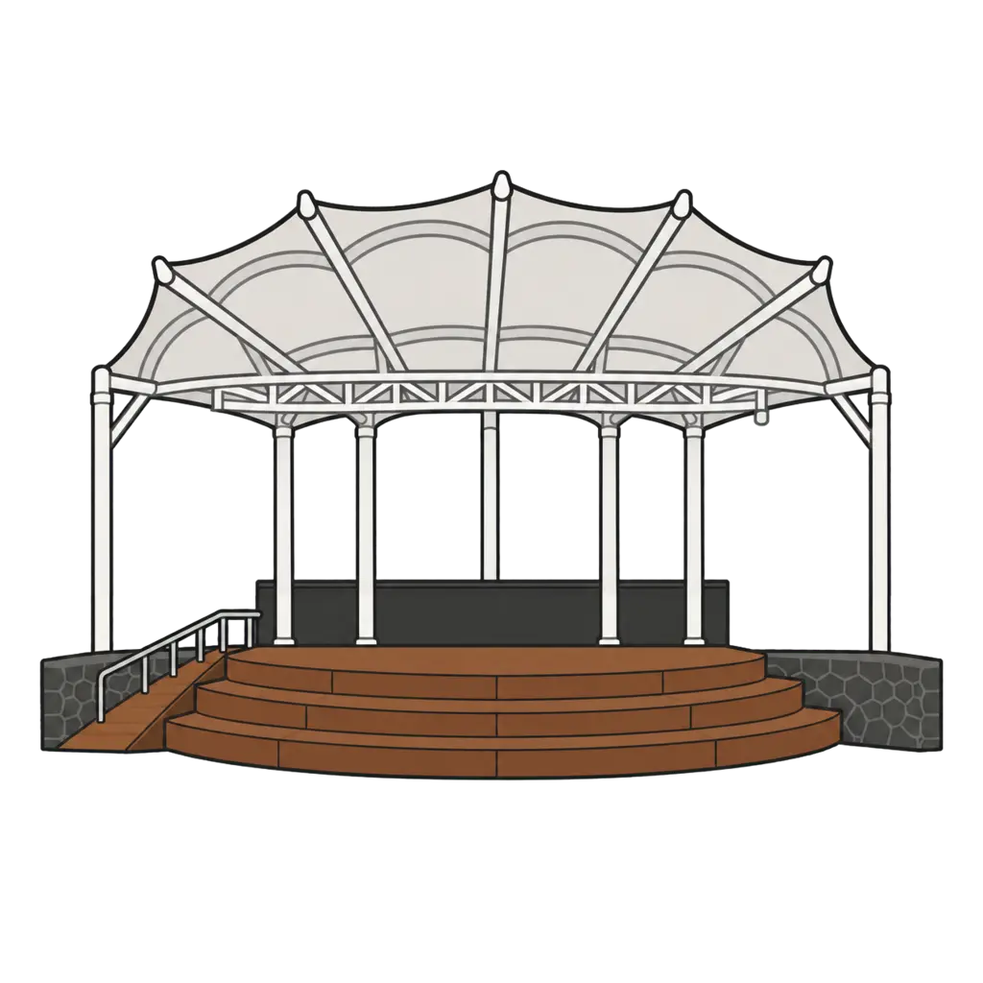
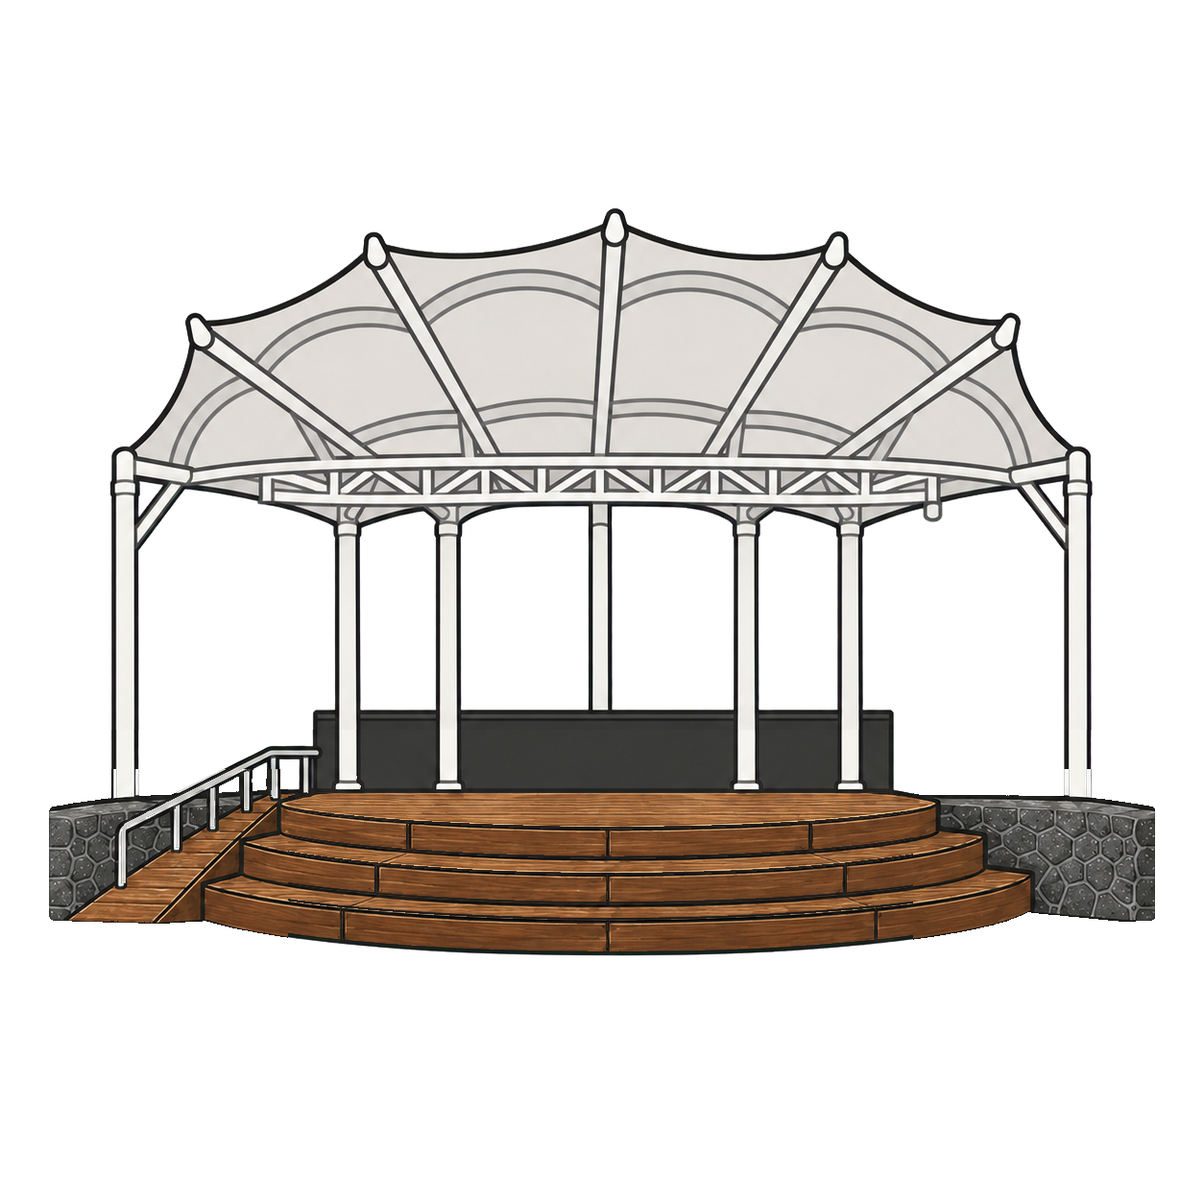
리뉴얼 자산 4종 및 모바일 성능 최적화

Changed region(s): [[0.0312, 0.625, 0.9688, 0.7812]]

diff --git a/app/page.tsx b/app/page.tsx
@@ -12,6 +12,7 @@ import {
   Suspense,
   useCallback,
   useEffect,
+  useLayoutEffect,
   useMemo,
   useRef,
   useState,
@@ -94,6 +95,10 @@ const LATEST_ARTSPACE_IA_ASSET_ID = "artspace-ia-v04";
 const LATEST_DONGMUN_ASSET_ID = "dongmun-v08";
 const LATEST_MOKGWANA_ASSET_ID = "mokgwana-v06";
 const LATEST_GWANDEOKJEONG_ASSET_ID = "gwandeokjeong-v07";
+const LATEST_KIM_MEMORIAL_ASSET_ID = "kim-memorial-front03";
+const LATEST_ARARIO_ASSET_ID = "arario-01";
+const LATEST_BUKSUGU_ASSET_ID = "buksugu-02";
+const LATEST_TAPDONG_SEASIDE_STAGE_ASSET_ID = "tapdong-seaside-stage-02";
 const MAIN_HUB_LANDMARK_ASSET_ID = "jeju-communication-center-a02";
 const LANDMARK_RESOURCE_SIZE = 6.2;
 const LANDMARK_LABEL_GAP = 8;
@@ -105,6 +110,10 @@ const latestRedesignedLandmarkAssets = new Map<string, string>([
   ["예술공간 이아", LATEST_ARTSPACE_IA_ASSET_ID],
   ["제주목 관아", LATEST_MOKGWANA_ASSET_ID],
   ["관덕정", LATEST_GWANDEOKJEONG_ASSET_ID],
+  ["김만덕기념관", LATEST_KIM_MEMORIAL_ASSET_ID],
+  ["아라리오뮤지엄 탑동시네마", LATEST_ARARIO_ASSET_ID],
+  ["북수구광장", LATEST_BUKSUGU_ASSET_ID],
+  ["탑동해변공연장", LATEST_TAPDONG_SEASIDE_STAGE_ASSET_ID],
 ]);
 const supersededRedesignedLandmarkAssets = new Map<string, Set<string>>([
   ["산지천갤러리", new Set(["sanjicheon-v04", "sanjicheon-01", "sanjicheon-02", "sanjicheon-03"])],
@@ -112,6 +121,10 @@ const supersededRedesignedLandmarkAssets = new Map<string, Set<string>>([
   ["예술공간 이아", new Set(["artspace-ia-01", "artspace-ia-02", "artspace-ia-03"])],
   ["제주목 관아", new Set(["mokgwana-01", "mokgwana-02", "mokgwana-03"])],
   ["관덕정", new Set(["gwandeokjeong-01", "gwandeokjeong-02", "gwandeokjeong-03"])],
+  ["김만덕기념관", new Set(["kim-memorial-front01", "kim-memorial-front02", "kim-memorial-quarter01", "kim-memorial-quarter02", "kim-memorial-quarter03"])],
+  ["아라리오뮤지엄 탑동시네마", new Set(["arario-02", "arario-03"])],
+  ["북수구광장", new Set(["buksugu-01", "buksugu-03"])],
+  ["탑동해변공연장", new Set(["tapdong-seaside-stage-03"])],
 ]);
 const EXPORT_CANONICAL_WIDTH = 1180;
 const AUTOSAVE_KEY = "jeju-wondosim-map-review:autosave:v3";
@@ -682,18 +695,18 @@ function mapElementDisplaySize(element: Pick<MapElement, "category" | "size">) {
 const landmarkLocations = [
   { name: MAIN_HUB_CANONICAL_NAME, address: "제주특별자치도 제주시 관덕로 44", addressSourceUrl: "https://www.jejusotong.kr/", assetId: MAIN_HUB_LANDMARK_ASSET_ID, x: 48, y: 64 },
   { name: "제주아트플랫폼", address: "제주특별자치도 제주시 중앙로14길 18", addressSourceUrl: "https://www.jfac.kr/", assetId: "jeju-art-platform-c01", x: 31, y: 62 },
-  { name: "김만덕기념관", address: "제주특별자치도 제주시 산지로 7", addressSourceUrl: "https://www.mandukmuseum.or.kr/", assetId: "kim-memorial-front03", x: 74, y: 31 },
+  { name: "김만덕기념관", address: "제주특별자치도 제주시 산지로 7", addressSourceUrl: "https://www.mandukmuseum.or.kr/", assetId: LATEST_KIM_MEMORIAL_ASSET_ID, x: 74, y: 31 },
   { name: "예술공간 이아", address: "제주특별자치도 제주시 중앙로14길 21", addressSourceUrl: "https://www.jfac.kr/operatingSpace/artSpaceIAa/iAaGuide", assetId: LATEST_ARTSPACE_IA_ASSET_ID, x: 34, y: 57 },
-  { name: "아라리오뮤지엄 탑동시네마", address: "제주특별자치도 제주시 탑동로 14", addressSourceUrl: "https://www.arariomuseum.org/", assetId: "arario-01", x: 18, y: 24 },
+  { name: "아라리오뮤지엄 탑동시네마", address: "제주특별자치도 제주시 탑동로 14", addressSourceUrl: "https://www.arariomuseum.org/", assetId: LATEST_ARARIO_ASSET_ID, x: 18, y: 24 },
   { name: "김만덕객주", address: "제주특별자치도 제주시 임항로 68", addressSourceUrl: "https://www.visitjeju.net/kr/detail/view?contentsid=CNTS_000000000019652", assetId: "guesthouse-01", x: 75, y: 25 },
   { name: "산지천갤러리", address: "제주특별자치도 제주시 중앙로3길 36", addressSourceUrl: "https://www.jfac.kr/operatingSpace/sjcGallery/sjcGuide", assetId: LATEST_SANJICHEON_ASSET_ID, x: 64, y: 40 },
   { name: "제주목 관아", address: "제주특별자치도 제주시 관덕로 25", addressSourceUrl: "https://www.jeju.go.kr/mokkwana/", assetId: LATEST_MOKGWANA_ASSET_ID, x: 39, y: 60 },
   { name: "관덕정", address: "제주특별자치도 제주시 관덕로 19", addressSourceUrl: "https://www.visitjeju.net/kr/detail/view?contentsid=CONT_000000000500057", assetId: LATEST_GWANDEOKJEONG_ASSET_ID, x: 37, y: 58 },
   { name: "칠성로", address: "제주특별자치도 제주시 관덕로13길 12 일대", addressSourceUrl: "https://www.visitjeju.net/kr/detail/view?contentsid=CONT_000000000500750", assetId: "chilsungro", x: 58, y: 50 },
   { name: "동문시장", address: "제주특별자치도 제주시 관덕로14길 20", addressSourceUrl: "https://www.visitjeju.net/kr/detail/view?contentsid=CONT_000000000500745", assetId: LATEST_DONGMUN_ASSET_ID, x: 66, y: 55 },
-  { name: "북수구광장", address: "제주특별자치도 제주시 일도일동 1232", addressSourceUrl: "https://www.facebook.com/wowjejusi/", assetId: "buksugu-01", x: 62, y: 45 },
+  { name: "북수구광장", address: "제주특별자치도 제주시 일도일동 1232", addressSourceUrl: "https://www.facebook.com/wowjejusi/", assetId: LATEST_BUKSUGU_ASSET_ID, x: 62, y: 45 },
   { name: "탑동광장", address: "제주특별자치도 제주시 중앙로 1", addressSourceUrl: "https://access.visitkorea.or.kr/ms/detail.do?cotId=2a115c66-9a01-4b59-bf17-ac2dd692ceea", assetId: "tapdong-square-03", x: 28, y: 20 },
-  { name: "탑동해변공연장", address: "제주특별자치도 제주시 중앙로 2", addressSourceUrl: "https://access.visitkorea.or.kr/ms/detail.do?cotId=51ad702c-5321-45a0-8a03-316acb38336e", assetId: "tapdong-seaside-stage-02", x: 37, y: 20 },
+  { name: "탑동해변공연장", address: "제주특별자치도 제주시 중앙로 2", addressSourceUrl: "https://access.visitkorea.or.kr/ms/detail.do?cotId=51ad702c-5321-45a0-8a03-316acb38336e", assetId: LATEST_TAPDONG_SEASIDE_STAGE_ASSET_ID, x: 37, y: 20 },
 ] as const;
 
 const CALIBRATION_LANDMARK_NAMES = [
@@ -2395,6 +2408,10 @@ export default function Home() {
   const fitZoomAppliedRef = useRef(false);
   const zoomRef = useRef(0.72);
   const panRef = useRef({ x: 0, y: 0 });
+  const touchTransformBaseZoomRef = useRef(0.72);
+  const touchTransformFrameRef = useRef<number | null>(null);
+  const pendingTouchTransformRef = useRef<{ zoom: number; pan: { x: number; y: number } } | null>(null);
+  const touchTransformCommitPendingRef = useRef(false);
   const wheelFrameRef = useRef<number | null>(null);
   const focusTransitionFrameRef = useRef<number | null>(null);
   const focusTransitionTimerRef = useRef<number | null>(null);
@@ -4174,7 +4191,7 @@ export default function Home() {
                 } : {}),
               };
               if (restored.name === "탑동해변공연장" && !restored.assetId) {
-                return { ...restored, assetId: "tapdong-seaside-stage-02", status: "approved" as AssetStatus, directoryId: "place-tapdong-seaside-stage" };
+                return { ...restored, assetId: LATEST_TAPDONG_SEASIDE_STAGE_ASSET_ID, status: "approved" as AssetStatus, directoryId: "place-tapdong-seaside-stage" };
               }
               const markerDefault = defaultMarkerAssetId(restored.category, recommendedMarkerStyle, restored.name);
               if (!restored.assetId && markerDefault) {
@@ -4903,8 +4920,8 @@ export default function Home() {
 
   useEffect(() => {
     if (publicLayoutAccess === "loading" || !startupAssetsReady || !startupInitialViewReady) return;
-    const timer = window.setTimeout(() => setStartupRevealReady(true), 320);
-    return () => window.clearTimeout(timer);
+    const readyFrame = window.requestAnimationFrame(() => setStartupRevealReady(true));
+    return () => window.cancelAnimationFrame(readyFrame);
   }, [publicLayoutAccess, startupAssetsReady, startupInitialViewReady]);
 
   useEffect(() => {
@@ -4924,6 +4941,61 @@ export default function Home() {
     calibrationLiveApplyRef.current = calibrationLiveApply;
   }, [calibrationLiveApply]);
 
+  const applyTouchMapTransform = useCallback((nextZoom: number, nextPan: { x: number; y: number }) => {
+    const stageWrap = stageWrapRef.current;
+    const stage = stageRef.current;
+    const viewport = viewportRef.current;
+    if (!stageWrap || !stage || !viewport) return;
+    const scale = nextZoom / Math.max(touchTransformBaseZoomRef.current, 0.01);
+    stageWrap.style.transform = `translate3d(calc(-50% + ${nextPan.x}px), calc(-50% + ${nextPan.y}px), 0)`;
+    stage.style.transform = `translateX(-50%) scale(${scale})`;
+    viewport.classList.add("is-direct-manipulation");
+  }, []);
+
+  const flushTouchMapTransform = useCallback(() => {
+    if (touchTransformFrameRef.current !== null) {
+      window.cancelAnimationFrame(touchTransformFrameRef.current);
+      touchTransformFrameRef.current = null;
+    }
+    const pending = pendingTouchTransformRef.current;
+    pendingTouchTransformRef.current = null;
+    if (pending) applyTouchMapTransform(pending.zoom, pending.pan);
+  }, [applyTouchMapTransform]);
+
+  const queueTouchMapTransform = useCallback((nextZoom: number, nextPan: { x: number; y: number }) => {
+    zoomRef.current = nextZoom;
+    panRef.current = nextPan;
+    pendingTouchTransformRef.current = { zoom: nextZoom, pan: nextPan };
+    if (touchTransformFrameRef.current !== null) return;
+    touchTransformFrameRef.current = window.requestAnimationFrame(() => {
+      touchTransformFrameRef.current = null;
+      const pending = pendingTouchTransformRef.current;
+      pendingTouchTransformRef.current = null;
+      if (pending) applyTouchMapTransform(pending.zoom, pending.pan);
+    });
+  }, [applyTouchMapTransform]);
+
+  const beginTouchMapTransform = useCallback(() => {
+    flushTouchMapTransform();
+    touchTransformBaseZoomRef.current = zoomRef.current;
+    viewportRef.current?.classList.add("is-direct-manipulation");
+  }, [flushTouchMapTransform]);
+
+  const commitTouchMapTransform = useCallback(() => {
+    flushTouchMapTransform();
+    touchTransformCommitPendingRef.current = true;
+    touchTransformBaseZoomRef.current = zoomRef.current;
+    setZoom(zoomRef.current);
+    setPan({ ...panRef.current });
+  }, [flushTouchMapTransform]);
+
+  useLayoutEffect(() => {
+    if (!touchTransformCommitPendingRef.current) return;
+    touchTransformCommitPendingRef.current = false;
+    stageRef.current?.style.removeProperty("transform");
+    viewportRef.current?.classList.remove("is-direct-manipulation");
+  }, [pan, zoom]);
+
   useEffect(() => {
     zoomRef.current = zoom;
     panRef.current = pan;
@@ -4931,10 +5003,12 @@ export default function Home() {
 
   useEffect(() => () => {
     if (wheelFrameRef.current !== null) window.cancelAnimationFrame(wheelFrameRef.current);
+    if (touchTransformFrameRef.current !== null) window.cancelAnimationFrame(touchTransformFrameRef.current);
     if (focusTransitionFrameRef.current !== null) window.cancelAnimationFrame(focusTransitionFrameRef.current);
     if (focusTransitionTimerRef.current !== null) window.clearTimeout(focusTransitionTimerRef.current);
     activeTouchPointersRef.current.clear();
     pinchGestureRef.current = null;
+    pendingTouchTransformRef.current = null;
   }, []);
 
   const beginPinchGesture = useCallback(() => {
@@ -4953,9 +5027,10 @@ export default function Home() {
       startPanX: panRef.current.x,
       startPanY: panRef.current.y,
     };
+    beginTouchMapTransform();
     setInteraction(null);
     return true;
-  }, []);
+  }, [beginTouchMapTransform]);
 
   useEffect(() => {
     if (publicLayoutAccess === "loading" || (publicLayoutAccess === "viewer" && baseMap !== "uploaded")) return;
@@ -4978,7 +5053,10 @@ export default function Home() {
     const applyMove = ({ clientX, clientY }: { clientX: number; clientY: number }) => {
       if (!interaction) return;
       if (interaction.type === "pan") {
-        setPan({ x: interaction.panX + clientX - interaction.startX, y: interaction.panY + clientY - interaction.startY });
+        queueTouchMapTransform(zoomRef.current, {
+          x: interaction.panX + clientX - interaction.startX,
+          y: interaction.panY + clientY - interaction.startY,
+        });
         return;
       }
       if (interaction.type === "label") {
@@ -5054,10 +5132,7 @@ export default function Home() {
               x: centerX - (pinch.startCenterX - pinch.startPanX) * ratio,
               y: centerY - (pinch.startCenterY - pinch.startPanY) * ratio,
             };
-            zoomRef.current = nextZoom;
-            panRef.current = nextPan;
-            setZoom(nextZoom);
-            setPan(nextPan);
+            queueTouchMapTransform(nextZoom, nextPan);
           }
           return;
         }
@@ -5078,6 +5153,7 @@ export default function Home() {
       if (trackedTouch) activeTouchPointersRef.current.delete(event.pointerId);
       if (pinch && pinch.pointerIds.includes(event.pointerId)) {
         pinchGestureRef.current = null;
+        commitTouchMapTransform();
         const remaining = activeTouchPointersRef.current.values().next().value as { clientX: number; clientY: number } | undefined;
         if (remaining) {
           setInteraction({
@@ -5094,6 +5170,7 @@ export default function Home() {
       }
       if (trackedTouch && pinch) return;
       flushMove();
+      if (interaction?.type === "pan") commitTouchMapTransform();
       if (interaction?.type === "pan" && interaction.pendingPublicPlaceId) {
         const moved = Math.hypot(event.clientX - interaction.startX, event.clientY - interaction.startY);
         if (moved <= 6) {
@@ -5127,6 +5204,7 @@ export default function Home() {
       pendingMove = null;
       if (moveFrame !== null) window.cancelAnimationFrame(moveFrame);
       moveFrame = null;
+      if (interaction?.type === "pan" || event.pointerType === "touch") commitTouchMapTransform();
       setInteraction(null);
     };
     window.addEventListener("pointermove", handleMove);
@@ -5138,7 +5216,7 @@ export default function Home() {
       window.removeEventListener("pointercancel", handleCancel);
       if (moveFrame !== null) window.cancelAnimationFrame(moveFrame);
     };
-  }, [clientToMap, fitZoom, interaction, placeEventFormOpen, placeEventMultiPlace, placeEventNoPlace, selectPublicMarker, syncReviewedPlaceRequestLocation, togglePlaceEventMapSelection, updateCalibrationPoint, updateDenseLabelPosition, updateElement]);
+  }, [clientToMap, commitTouchMapTransform, fitZoom, interaction, placeEventFormOpen, placeEventMultiPlace, placeEventNoPlace, queueTouchMapTransform, selectPublicMarker, syncReviewedPlaceRequestLocation, togglePlaceEventMapSelection, updateCalibrationPoint, updateDenseLabelPosition, updateElement]);
 
   useEffect(() => {
     const handleKey = (event: KeyboardEvent) => {
@@ -5265,6 +5343,7 @@ export default function Home() {
       }
       setSelectedId(null); setSelectedFacilityId(null); setSelectedNoteId(null); setSelectedDenseLabelId(null);
     }
+    beginTouchMapTransform();
     setInteraction({ type: "pan", startX: event.clientX, startY: event.clientY, panX: panRef.current.x, panY: panRef.current.y, pendingPublicPlaceId, pendingPlaceRequestLocation });
   };
 
@@ -8300,7 +8379,7 @@ export default function Home() {
     ? MAP_SVG
     : baseMap === "png"
       ? MAP_PNG
-      : uploadedBaseMapDisplaySource(uploadedBaseMap, viewportDimensions.width > 0 && viewportDimensions.width <= 760, zoom / Math.max(fitZoom, 0.22)) || MAP_SVG;
+      : uploadedBaseMapDisplaySource(uploadedBaseMap, viewportDimensions.width > 0 && viewportDimensions.width <= 760, settledLabelZoom / Math.max(fitZoom, 0.22)) || MAP_SVG;
   const activeBaseMapLabel = baseMap === "uploaded" ? uploadedBaseMap?.name ?? "업로드 지도" : "v15 · 골목추가정리 검수본";
   const editorSyncLabel = editorDraftSyncState === "saving"
     ? "서버 저장 중"
@@ -8633,7 +8712,7 @@ export default function Home() {
           <div className="canvas-toolbar"><span className="map-file" title={activeBaseMapLabel}>{activeBaseMapLabel}</span><div className={`canvas-hint ${resourceOutputDragMode ? "output-mode" : ""}`}>{resourceOutputDragMode ? "출력 위치 ON · 드래그/방향키로 리소스만 이동" : calibrationMode ? "앵커 드래그 → 전체 좌표 보정 적용" : "출력 위치 OFF · 실제 위치 앵커 이동"}</div></div>
           <div className={`map-viewport ${interaction?.type === "pan" ? "is-panning" : ""} ${interaction?.type === "drag" ? "is-dragging-element" : ""} ${Math.abs(zoom - settledLabelZoom) > 0.002 ? "is-zooming" : ""} ${mapFocusAnimating ? "is-programmatic-focus" : ""} ${memoMode ? "memo-cursor" : ""} ${eventPlaceSelectionMode ? "event-place-selecting" : ""} ${placeRequestPickingLocation ? "place-request-location-selecting" : ""}`} ref={viewportRef} onWheel={onWheel} onPointerDown={startPan}>
             {publicLayoutAccess === "viewer" && <button type="button" className="public-map-reset" onPointerDown={(event) => event.stopPropagation()} onClick={resetPublicMap} aria-label="전체 지도 보기">↙ 전체 지도</button>}
-            <div ref={stageWrapRef} className="map-stage-wrap" style={{ transform: `translate(calc(-50% + ${pan.x}px), calc(-50% + ${pan.y}px))` }}>
+            <div ref={stageWrapRef} className="map-stage-wrap" style={{ transform: `translate3d(calc(-50% + ${pan.x}px), calc(-50% + ${pan.y}px), 0)` }}>
               <div className={`map-stage ${stageMapClass} ${forceIndividualLabels && !printPreviewMode ? "label-detail-individual" : ""} ${calibrationMode && editingEnabled ? "calibration-active" : ""}`} data-label-detail={denseLabelClusters.length ? forceIndividualLabels && !printPreviewMode ? "dense-exception" : "grouped" : "individual"} ref={stageRef} style={{ aspectRatio: `${MAP_ASPECT}`, width: `${zoom * 100}%` }} onPointerDown={editingEnabled ? handleStagePointerDown : publicLayoutAccess === "viewer" ? (event) => startPan(event, undefined, placeRequestPickingLocation) : undefined}>
                 {!mapLoaded && <div className="map-loading"><span />초고해상도 베이스맵 불러오는 중</div>}
                 <img ref={baseMapImgRef} className="base-map" src={activeBaseMapSrc} alt="제주 원도심 검수용 베이스맵" draggable={false} decoding="async" fetchPriority="high" onLoad={() => setMapLoaded(true)} />

diff --git a/app/landmark-assets/index.ts b/app/landmark-assets/index.ts
@@ -10,7 +10,7 @@ export type BundledLandmarkAsset = {
 };
 
 const drive = (id: string) => `https://drive.google.com/file/d/${id}/view?usp=drivesdk`;
-const SCREEN_REVISION = "20260818-v1";
+const SCREEN_REVISION = "20260819-renewed-v1";
 const asset = (id: string, name: string, placeName: string, sourceId: string, status: "approved" | "review" = "review", revision?: string): BundledLandmarkAsset => ({
   id,
   name,
@@ -32,7 +32,7 @@ export const bundledLandmarkAssets: BundledLandmarkAsset[] = [
   asset("jeju-art-platform-c02", "C-02", "제주아트플랫폼", "1sWoCzS7pTmljzc0SKyrtaK4n9mTtT7s1"),
   asset("kim-memorial-front01", "정면형 01", "김만덕기념관", "1TncaLfVVVKpo_9QWCUadDbL9ey7Xcv4k"),
   asset("kim-memorial-front02", "정면형 02", "김만덕기념관", "1tN2rU4UdyXpjKhSP9Q2iXSvHLTXOBs9t"),
-  asset("kim-memorial-front03", "정면형 03", "김만덕기념관", "1ibKYrZI6AmglYZIrdV03tvWdPiCmIl_C"),
+  asset("kim-memorial-front03", "정면형 03 · v04 밝기·타일·포스터 리뉴얼", "김만덕기념관", "1eJIj9K71WtWzOy2kUUomZuHUKIb7ja5M", "approved", "20260819-renewed-v1"),
   asset("kim-memorial-quarter01", "3/4형 01", "김만덕기념관", "1XcWZBN6-A7afvlPq5Py02jkb-5pDa_SQ"),
   asset("kim-memorial-quarter02", "3/4형 02", "김만덕기념관", "1UkpS_YFo0h22uVLrC7-mE7R66gDTq4PF"),
   asset("kim-memorial-quarter03", "3/4형 03", "김만덕기념관", "1pyP_iOXVWC6rEtzQqzKc-yQfm8LpzFbu"),
@@ -40,7 +40,7 @@ export const bundledLandmarkAssets: BundledLandmarkAsset[] = [
   asset("artspace-ia-01", "01", "예술공간 이아", "1YUKunZFdvrxwRjrg34Ty95ka2ptbrPw4"),
   asset("artspace-ia-02", "02", "예술공간 이아", "1tIGnoC8X5g_fe_1l5IIR1pqteuO_ydg8"),
   asset("artspace-ia-03", "03", "예술공간 이아", "18AH81ITwD8FBJ-Qfh4YhTovuUuwQSeGi"),
-  asset("arario-01", "01", "아라리오뮤지엄 탑동시네마", "1HG_1TowUiR5czlwnIqlc1jWI3780k2MH"),
+  asset("arario-01", "01 · v04 사진 기반 구조 리뉴얼", "아라리오뮤지엄 탑동시네마", "1KWnZV-M8vi5TNBhsAj4TBc-DLKGOq7Vq", "approved", "20260819-renewed-v1"),
   asset("arario-02", "02", "아라리오뮤지엄 탑동시네마", "1DEkKtQXNFIpQun_V7JFFDq5PGTRrqV56"),
   asset("arario-03", "03", "아라리오뮤지엄 탑동시네마", "10k_eX10r7cefYyNx0q9osSi5Osf00J5G"),
   asset("guesthouse-01", "01", "김만덕객주", "1LOkmVUKR3eG-_2Q1q-y8ChpQjNn-60Pl"),
@@ -65,11 +65,11 @@ export const bundledLandmarkAssets: BundledLandmarkAsset[] = [
   asset("dongmun-02", "02", "동문시장", "1T4FBW7DcqE7W8T1uCX3FNyxkDTGfUFST"),
   asset("dongmun-03", "03 캐노피", "동문시장", "1R9vy-yTJr3QjeSQ2QzETYmO5FpnAPYqQ"),
   asset("buksugu-01", "01", "북수구광장", "13zmz0Hn_SP8ZdWuKBzlHmfvTfBUnDDB5"),
-  asset("buksugu-02", "02", "북수구광장", "1U0zkvSggextTVdWPa_PVM5B79ZSPSkOi"),
+  asset("buksugu-02", "02 · v03 목재·현무암 질감 리뉴얼", "북수구광장", "1ckvDt-XcwMheuRdT-G3L5t-yjFGrsvMF", "approved", "20260819-renewed-v1"),
   asset("buksugu-03", "03", "북수구광장", "1oZuig-CniYawKLnf-oVscgVZjV1j6Vl5"),
   asset("tapdong-square-01", "01 파도형", "탑동광장", "1roVYb8KTXdwTpj1xtqp7EwCNAIgZmpVT"),
   asset("tapdong-square-02", "02", "탑동광장", "1yvxmEjXSFPEn13TyYzL7dSGRyy31Op_i"),
   asset("tapdong-square-03", "03 쌍돌고래", "탑동광장", "1nEplMz-3gj_gqpleBTVTmvSjlAQdOAA8", "approved"),
-  asset("tapdong-seaside-stage-02", "02 실사디테일형", "탑동해변공연장", "1yJFc_CSJpdFR0Q8nocCF55ryO57StvEf", "approved"),
+  asset("tapdong-seaside-stage-02", "02 · v03 외장 타일 질감 리뉴얼", "탑동해변공연장", "1jHvj42j4k-lbeS2BAje_UGkv3u3sDiDj", "approved", "20260819-renewed-v1"),
   asset("tapdong-seaside-stage-03", "03", "탑동해변공연장", "142n3DD4XmaJXjve45jv_NDUhuCFLn0U0"),
 ];

diff --git a/app/globals.css b/app/globals.css
@@ -565,6 +565,8 @@ kbd { border: 1px solid var(--line); border-radius: 4px; padding: 2px 4px; backg
 .map-viewport.place-request-location-selecting { cursor: crosshair; }
 .map-stage-wrap { position: absolute; left: 50%; top: 50%; width: min(1180px, 84vw); transform-origin: center; will-change: auto; }
 .map-stage { position: relative; left: 50%; overflow: visible; transform: translateX(-50%); background: #f4f2ed; box-shadow: 0 15px 45px rgb(51 51 51 / 18%); user-select: none; }
+.map-viewport.is-direct-manipulation .map-stage-wrap,
+.map-viewport.is-direct-manipulation .map-stage { will-change: transform; }
 .map-viewport.is-programmatic-focus .map-stage-wrap { transition: transform .3s cubic-bezier(.22, .78, .28, 1); }
 .map-viewport.is-programmatic-focus .map-stage { transition: width .3s cubic-bezier(.22, .78, .28, 1); }
 .base-map { position: absolute; inset: 0; width: 100%; height: 100%; object-fit: fill; pointer-events: none; }
@@ -609,7 +611,8 @@ kbd { border: 1px solid var(--line); border-radius: 4px; padding: 2px 4px; backg
 .dummy-symbol.marker span { transform: rotate(45deg); color: white; font-weight: 800; font-size: clamp(5px, 1.2vw, 16px); }
 .dummy-symbol.landmark span { position: relative; margin-top: 22%; font-weight: 900; color: currentColor; font-size: clamp(8px, 2.2vw, 27px); }
 .placed-asset { display: block; width: 100%; height: 100%; object-fit: contain; image-rendering: auto; filter: drop-shadow(0 2px 2px rgb(40 40 40 / 13%)); pointer-events: none; }
-.map-viewport:is(.is-panning, .is-zooming, .is-dragging-element) .map-element.general-marker .placed-asset { filter: none; }
+.map-viewport:is(.is-panning, .is-zooming, .is-dragging-element, .is-direct-manipulation) .placed-asset { filter: none; }
+.map-viewport.is-direct-manipulation .map-element.public-interactive .icon-visual { transition: none; }
 .clearance-zone { position: absolute; left: 50%; top: 50%; width: 130%; aspect-ratio: 1; transform: translate(-50%, -50%); border-radius: 50%; pointer-events: none; z-index: -1; }
 .clearance-zone.visible { border: 1px dashed rgb(100 100 100 / 50%); background: rgb(100 100 100 / 7%); }
 .clearance-zone.collision-hard { border: 1.5px solid rgb(194 65 50 / 75%); background: rgb(222 80 62 / 20%); }

diff --git a/public/service-worker.js b/public/service-worker.js
@@ -1,5 +1,5 @@
 const CACHE_PREFIX = "wonartmap-pwa-";
-const CACHE_VERSION = "2026-08-18-v2";
+const CACHE_VERSION = "2026-08-19-v3";
 const CORE_CACHE = `${CACHE_PREFIX}core-${CACHE_VERSION}`;
 const IMAGE_CACHE = `${CACHE_PREFIX}images-${CACHE_VERSION}`;
 const BASE_MAP_CACHE = `${CACHE_PREFIX}base-map-${CACHE_VERSION}`;
@@ -95,6 +95,22 @@ async function cacheFirstVersionedBaseMap(request) {
   return response;
 }
 
+async function cacheFirstVersionedImage(request) {
+  const cache = await caches.open(IMAGE_CACHE);
+  const cached = await cache.match(request);
+  if (cached) return cached;
+  const response = await fetch(request);
+  if (response.ok) {
+    try {
+      await cache.put(request, response.clone());
+      await trimCache(IMAGE_CACHE, MAX_CACHED_IMAGES);
+    } catch {
+      // 저장 공간이 부족하면 네트워크 응답만 사용한다.
+    }
+  }
+  return response;
+}
+
 self.addEventListener("fetch", (event) => {
   const { request } = event;
   if (request.method !== "GET") return;
@@ -121,6 +137,10 @@ self.addEventListener("fetch", (event) => {
   if (request.destination === "script" || request.destination === "style") return;
 
   if (request.destination === "image") {
+    if (url.searchParams.has("v")) {
+      event.respondWith(cacheFirstVersionedImage(request).catch(() => caches.match(request)));
+      return;
+    }
     event.respondWith(staleWhileRevalidateImage(event).catch(() => caches.match(request)));
     return;
   }
